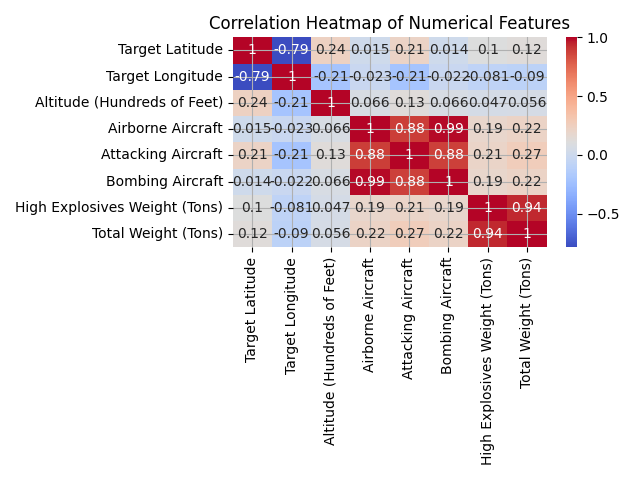
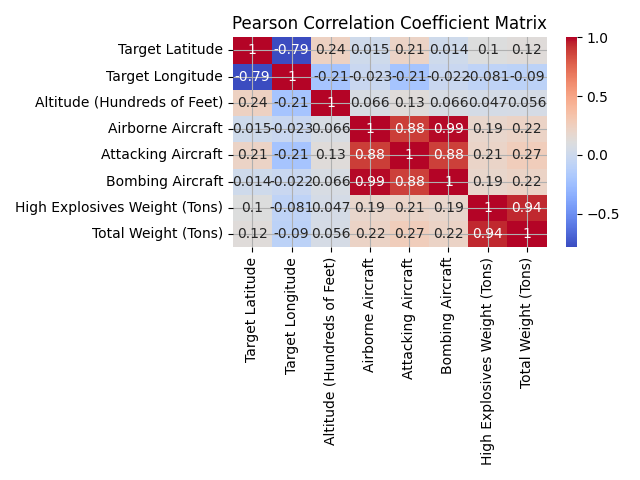
Finilize for project submission

Changed region(s): [[0.3125, 0.0312, 0.9062, 0.0625]]

diff --git a/operations.py b/operations.py
@@ -6,6 +6,9 @@ import seaborn as sns
 from prettytable import PrettyTable
 import numpy as np
 from mpl_toolkits.mplot3d import Axes3D
+from sklearn.decomposition import PCA
+from scipy.stats import shapiro
+from sklearn.preprocessing import StandardScaler
 
 
 # Function to create PrettyTable from DataFrame
@@ -29,6 +32,22 @@ def create_and_save_plot(plot_function, *args, **kwargs):
 df = pd.read_csv('operations.csv')
 print(f'There are {len(df)} observations in the dataset')
 print(df.head())
+
+
+# Data Overview
+desc_table = PrettyTable()
+desc_table.field_names = ["Observation", "Description"]
+desc_table.add_row(["Dataset Shape", df.shape])
+desc_table.add_row(["Missing Values", df.isnull().sum()])
+desc_table.add_row(["Summary Statistics", df.describe()])
+print("Description of Data:")
+print(desc_table)
+
+latex_table = desc_table.get_latex_string()
+
+# Save the LaTeX-formatted table to a .tex file
+with open("desc_table.tex", "w") as file:
+    file.write(latex_table)
 
 # Data preprocessing
 
@@ -99,6 +118,120 @@ df_high_explosives_weight_and_altitude_outlier_removed = remove_outliers(
     df_high_explosives_weight_outlier_removed, 'Altitude (Hundreds of Feet)')
 df_all_outlier_removed = remove_outliers(
     df_high_explosives_weight_and_altitude_outlier_removed, 'Total Weight (Tons)')
+
+
+def add_row(table, info):
+    table.add_row([
+        info['Column'],
+        info['Q1'],
+        info['Q3'],
+        info['IQR'],
+        info['Lower Bound'],
+        info['Upper Bound'],
+        info['Number of Outliers']
+    ])
+
+def get_outlier_info(df, column_name):
+    Q1 = df[column_name].quantile(0.25)
+    Q3 = df[column_name].quantile(0.75)
+    IQR = Q3 - Q1
+    lower_bound = Q1 - 1.5 * IQR
+    upper_bound = Q3 + 1.5 * IQR
+
+    # Get outliers
+    outliers = df[(df[column_name] < lower_bound) | (df[column_name] > upper_bound)]
+
+    # Information
+    info = {
+        'Column': column_name,
+        'Q1': Q1,
+        'Q3': Q3,
+        'IQR': IQR,
+        'Lower Bound': lower_bound,
+        'Upper Bound': upper_bound,
+        'Number of Outliers': len(outliers),
+    }
+
+    return info
+
+
+# Get outlier information for each dataframe
+total_weight_info = get_outlier_info(df, 'Total Weight (Tons)')
+total_weight_and_altitude_info = get_outlier_info(df_total_weight_outlier_removed, 'Altitude (Hundreds of Feet)')
+theaters_of_ops_total_weight_info = get_outlier_info(df_top_theaters_of_ops, 'Total Weight (Tons)')
+target_types_total_weight_info = get_outlier_info(df_top_target_types, 'Total Weight (Tons)')
+high_explosives_weight_info = get_outlier_info(df, 'High Explosives Weight (Tons)')
+high_explosives_weight_and_altitude_info = get_outlier_info(df_high_explosives_weight_outlier_removed, 'Altitude (Hundreds of Feet)')
+all_outlier_info = get_outlier_info(df_all_outlier_removed, 'Total Weight (Tons)')
+
+# Create PrettyTable
+outlier_table = PrettyTable()
+outlier_table.field_names = ["Column", "Q1", "Q3", "IQR", "Lower Bound", "Upper Bound", "Num Outliers"]
+
+# Add rows for each dataframe
+add_row(outlier_table, total_weight_info)
+add_row(outlier_table, total_weight_and_altitude_info)
+add_row(outlier_table, theaters_of_ops_total_weight_info)
+add_row(outlier_table, target_types_total_weight_info)
+add_row(outlier_table, high_explosives_weight_info)
+add_row(outlier_table, high_explosives_weight_and_altitude_info)
+add_row(outlier_table, all_outlier_info)
+
+# Print the PrettyTable
+print('Outlier info:')
+print(outlier_table)
+
+
+# Principal Component Analysis (PCA)
+def perform_pca(dataframe):
+    features = dataframe[numerical_features]
+
+    scaler = StandardScaler()
+    standardized_features = scaler.fit_transform(features)
+
+    pca = PCA()
+    principal_components = pca.fit_transform(standardized_features)
+
+    condition_number = np.linalg.cond(standardized_features)
+    singular_values = pca.singular_values_
+
+    return principal_components, condition_number, singular_values
+
+
+pca_result, condition_number, singular_values = perform_pca(df)
+print(f"Condition Number: {condition_number}")
+print(f"Singular Values: {singular_values}")
+
+
+# Normality test
+def perform_normality_test(data):
+    stat, p_value = shapiro(data['High Explosives Weight (Tons)'])
+    return stat, p_value
+
+
+normality_stat, normality_p_value = perform_normality_test(df)
+print(f"Normality Test Statistic: {normality_stat}")
+print(f"P-Value: {normality_p_value}")
+
+# Heatmap & Pearson correlation coefficient matrix
+plt.title('Pearson Correlation Coefficient Matrix')
+correlation_matrix = df[numerical_features].corr()
+print(correlation_matrix)
+create_and_save_plot(sns.heatmap, correlation_matrix, annot=True, cmap='coolwarm')
+
+# Statistics: Multivariate Kernel Density Estimate
+scaler = StandardScaler()
+df_standardized = scaler.fit_transform(
+    remove_outliers(df, numerical_features)[numerical_features])
+
+plt.figure(figsize=(10, 8))
+plt.title('Multivariate Kernel Density Estimate')
+for i in range(df_standardized.shape[1]):
+    sns.kdeplot(data=df_standardized[:, i], fill=True, label=numerical_features[i])
+
+plt.legend()
+plt.savefig('standardized_multivariate_kde.png')
+plt.show()
 
 
 # Data Visualization

diff --git a/desc_table.tex b/desc_table.tex
@@ -1,0 +1,62 @@
+\begin{tabular}{cc}
+Observation & Description \\
+Dataset Shape & (178281, 46) \\
+Missing Values & Mission ID                                    0
+Mission Date                                  0
+Theater of Operations                      3158
+Country                                   51787
+Air Force                                 51837
+Unit ID                                  127368
+Aircraft Series                             116
+Callsign                                 178260
+Mission Type                             131095
+Takeoff Base                             174898
+Takeoff Location                         174943
+Takeoff Latitude                         175300
+Takeoff Longitude                        175301
+Target ID                                 50875
+Target Country                              599
+Target City                                2263
+Target Type                               31911
+Target Industry                           51802
+Target Priority                           43561
+Target Latitude                            8716
+Target Longitude                           8738
+Altitude (Hundreds of Feet)               57455
+Airborne Aircraft                         96039
+Attacking Aircraft                        53173
+Bombing Aircraft                          96669
+Aircraft Returned                        178148
+Aircraft Failed                          178034
+Aircraft Damaged                         178243
+Aircraft Lost                            178123
+High Explosives                          143544
+High Explosives Type                     136336
+High Explosives Weight (Pounds)          176260
+High Explosives Weight (Tons)             32080
+Incendiary Devices                       174998
+Incendiary Devices Type                  172762
+Incendiary Devices Weight (Pounds)       177925
+Incendiary Devices Weight (Tons)         152549
+Fragmentation Devices                    172513
+Fragmentation Devices Type               172516
+Fragmentation Devices Weight (Pounds)    178087
+Fragmentation Devices Weight (Tons)      161379
+Total Weight (Pounds)                    176162
+Total Weight (Tons)                       11773
+Time Over Target                         177592
+Bomb Damage Assessment                   178177
+Source ID                                  4045
+dtype: int64 \\
+Summary Statistics &           Mission ID  Takeoff Longitude  ...  Total Weight (Tons)      Source ID
+count  178281.000000        2980.000000  ...        166508.000000  174236.000000
+mean    89414.547041         220.618627  ...            25.760326  152670.902322
+std     51649.744549         454.046956  ...            90.643876  105544.795936
+min         1.000000        -177.328611  ...             0.000000       1.000000
+25%     44571.000000          14.400000  ...             2.000000   53476.500000
+50%     89540.000000          29.851389  ...             9.290000  167604.500000
+75%    134171.000000          96.133222  ...            31.000000  211284.250000
+max    178742.000000        1355.000000  ...         20000.000000  699625.000000
+
+[8 rows x 23 columns] \\
+\end{tabular}

diff --git a/correlation_matrix_table.tex b/correlation_matrix_table.tex
@@ -1,0 +1,18 @@
+\begin{table}
+\resizebox{\textwidth}{!}{
+\begin{tabular}{lrrrrrrrr}
+\toprule
+{} &  Target Latitude &  Target Longitude &  Altitude (Hundreds of Feet) &  Airborne Aircraft &  Attacking Aircraft &  Bombing Aircraft &  High Explosives Weight (Tons) &  Total Weight (Tons) \\
+\midrule
+Target Latitude               &         1.000000 &         -0.785643 &                     0.237544 &           0.014736 &            0.213572 &          0.014156 &                       0.104024 &             0.121166 \\
+Target Longitude              &        -0.785643 &          1.000000 &                    -0.211593 &          -0.023147 &           -0.208003 &         -0.021694 &                      -0.080637 &            -0.090248 \\
+Altitude (Hundreds of Feet)   &         0.237544 &         -0.211593 &                     1.000000 &           0.065769 &            0.127947 &          0.065947 &                       0.046894 &             0.056120 \\
+Airborne Aircraft             &         0.014736 &         -0.023147 &                     0.065769 &           1.000000 &            0.882858 &          0.992360 &                       0.187862 &             0.218169 \\
+Attacking Aircraft            &         0.213572 &         -0.208003 &                     0.127947 &           0.882858 &            1.000000 &          0.881352 &                       0.206634 &             0.265230 \\
+Bombing Aircraft              &         0.014156 &         -0.021694 &                     0.065947 &           0.992360 &            0.881352 &          1.000000 &                       0.185356 &             0.215927 \\
+High Explosives Weight (Tons) &         0.104024 &         -0.080637 &                     0.046894 &           0.187862 &            0.206634 &          0.185356 &                       1.000000 &             0.940600 \\
+Total Weight (Tons)           &         0.121166 &         -0.090248 &                     0.056120 &           0.218169 &            0.265230 &          0.215927 &                       0.940600 &             1.000000 \\
+\bottomrule
+\end{tabular}
+}
+\end{table}
